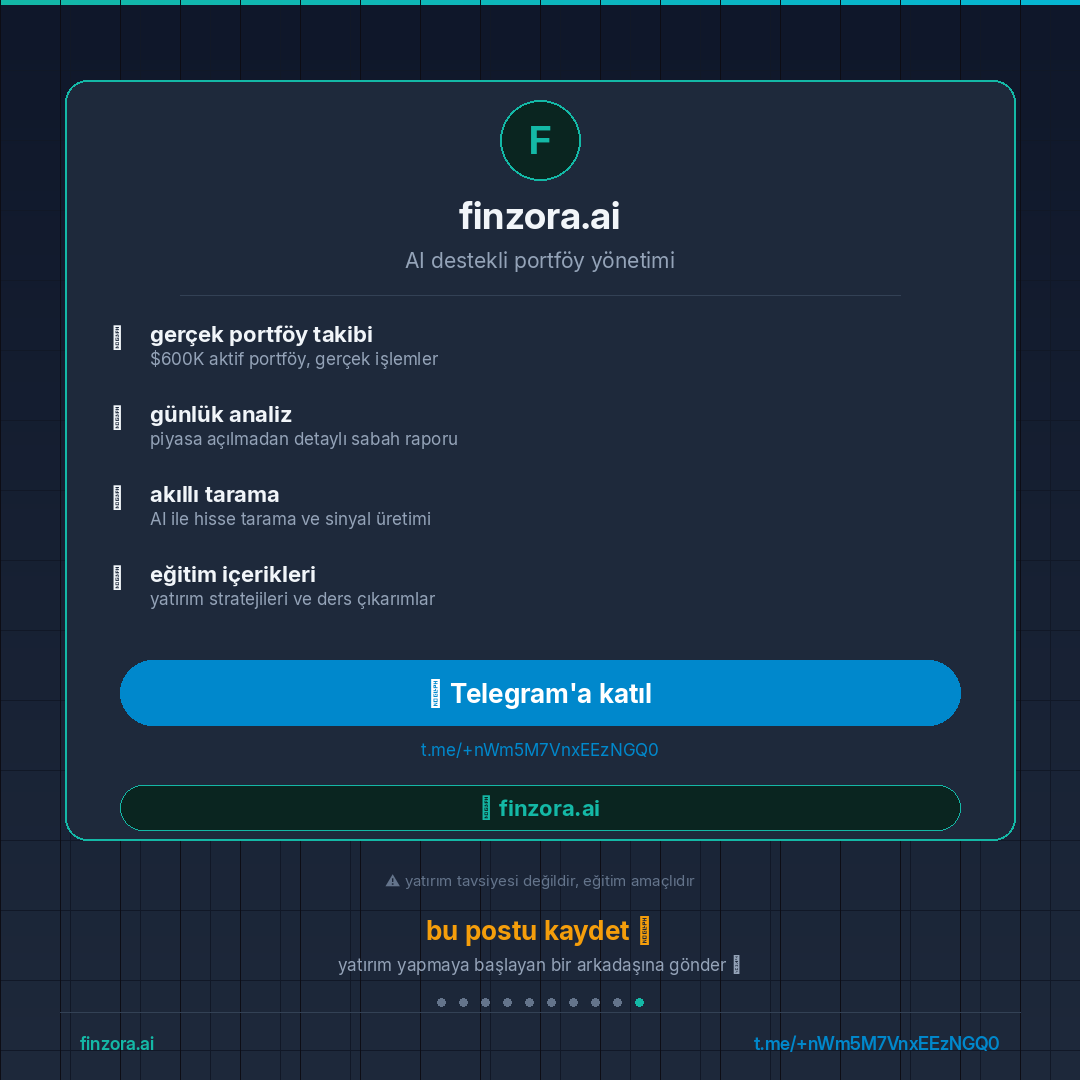
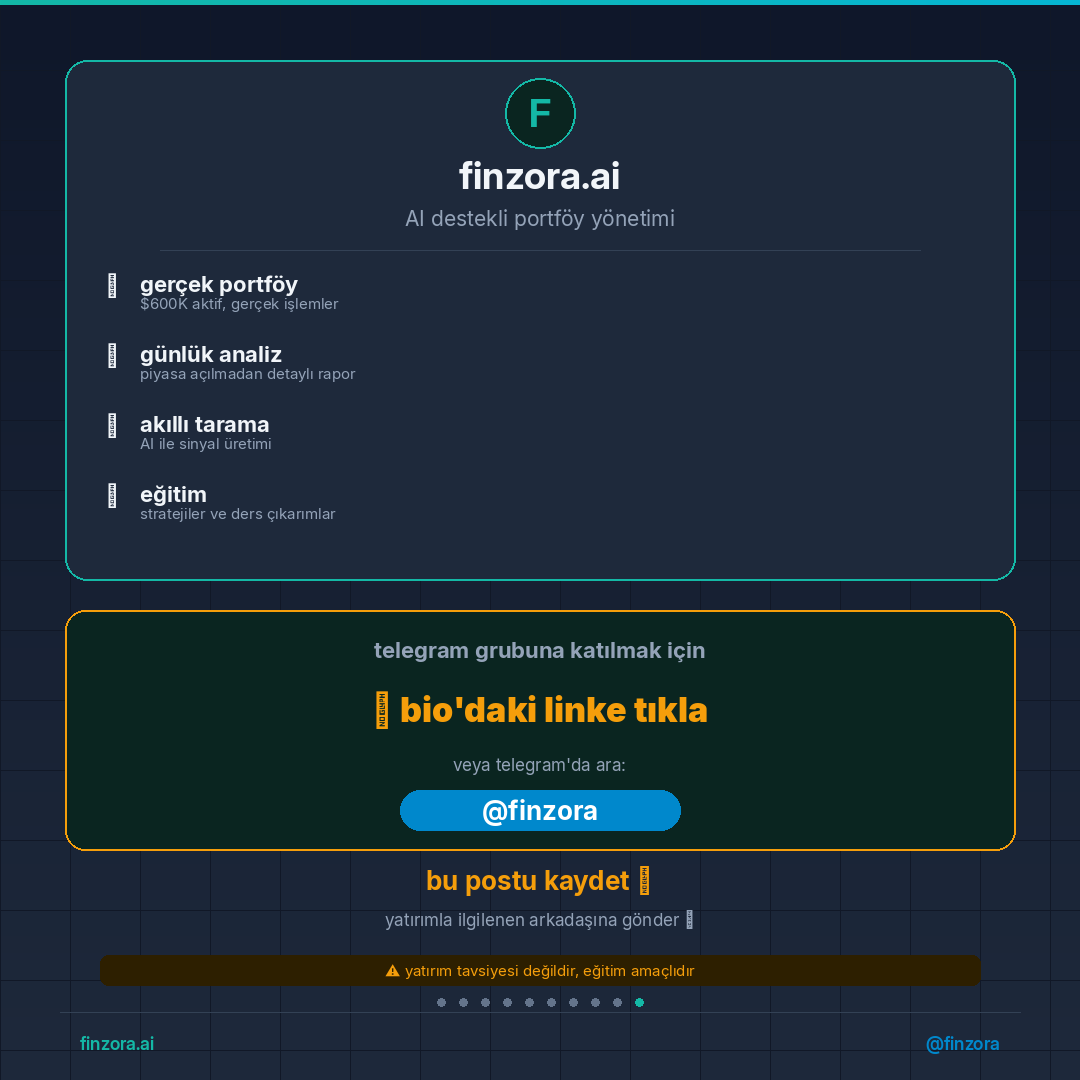
instagram: 3 günlük içerik takvimi + zamanlanmış yayın
- 7 Hata CTA düzeltildi: link → 'bio'daki linke tıkla' yönlendirmesi
- Haftalık Özet (7 slide): 5 Nisan 20:30 TR otomatik
- $100 ile Yatırım (8 slide): 6 Nisan 20:35 TR otomatik
- Genel publish_carousel.py scripti (tüm carousel'ler için)

diff --git a/scripts/publish_carousel.py b/scripts/publish_carousel.py
@@ -1,0 +1,137 @@
+#!/usr/bin/env python3
+"""Genel carousel yayınlama — klasör + caption ile çalışır"""
+import requests, json, time, sys, os, argparse
+
+BASE_DIR = os.path.dirname(os.path.dirname(os.path.abspath(__file__)))
+with open(os.path.join(BASE_DIR, "config", "instagram_config.json")) as f:
+    config = json.load(f)
+
+IG_ID = config["instagram_account_id"]
+TOKEN = config["access_token"]
+API = f"https://graph.facebook.com/{config['graph_api_version']}"
+
+CAPTIONS = {
+    "weekly": """📊 bu hafta ABD borsasında ne oldu?
+
+31 mart — 4 nisan 2026 haftasının özeti 👇
+
+🔴 CPU arz krizi patladı
+→ Intel %9+ ralli yaptı, Fab 34 geri alımı
+→ ARM AGI CPU lansmanıyla %18 sıçradı
+→ sunucu CPU fiyatları %10-15 arttı
+→ DDR5 256GB modül $5,700'e çıktı
+
+🌍 jeopolitik
+→ İran savaşı 5. haftasında, enerji primi yüksek
+→ 7 nisan müzakere deadline'ı yaklaşıyor
+→ VIX 25+ bölgesinde, volatilite devam
+
+📈 haftanın öne çıkanları: INTC, AMD, ARM, MU, QCOM
+
+gelecek hafta kritik: İran deadline + CPI verisi + Fed konuşmaları
+
+detaylı analiz ve portföy takibi 👇
+👆 bio'daki linke tıkla veya telegram'da @finzora ara
+🌐 finzora.ai
+
+⚠️ yatırım tavsiyesi değildir, eğitim amaçlıdır.
+
+
+#finzora #yatirim #borsa #amerikanborsasi #haftalikozet #sp500 #nasdaq #cpu #semiconductor #intel #amd #borsaanalizi #piyasa #wallstreet #hisseSenedi""",
+
+    "100dollar": """💰 $100 ile yatırıma nasıl başlanır?
+
+sıfırdan adım adım rehber 👇
+
+1️⃣ hedefini belirle — neden yatırım yapıyorsun?
+2️⃣ acil durum fonu ayır — 3-6 aylık gider
+3️⃣ aracı kurum hesabı aç — 10 dakika yeter
+4️⃣ ETF ile başla — SPY, QQQ veya VT
+5️⃣ düzenli yatır — her ay aynı gün, aynı tutar
+
+$100/ay × 20 yıl × %10 getiri = $76,000+
+
+bileşik getiri dünyanın 8. harikası. zaman senin en büyük silahın.
+
+bu rehberi kaydet 🔖 lazım olacak
+yatırıma başlamak isteyen arkadaşına gönder 📩
+
+daha fazlası için 👇
+👆 bio'daki linke tıkla veya telegram'da @finzora ara
+🌐 finzora.ai
+
+⚠️ yatırım tavsiyesi değildir, eğitim amaçlıdır.
+
+
+#finzora #yatirim #borsa #yatirimabasla #etf #sp500 #borsaegitimi #finansokuryazarligi #yeniyatirimci #100dolar #bilesikgetiri #portfoy #pasifgelir #yatirimegitimleri #amerikanborsasi""",
+}
+
+COMMENTS = {
+    "weekly": "gelecek hafta hangi hisseyi takip ediyorsunuz? 👇",
+    "100dollar": "yatırıma kaç yaşında başladın veya başlamayı düşünüyorsun? 👇",
+}
+
+def upload(fp):
+    r = requests.post("https://catbox.moe/user/api.php", files={"fileToUpload": open(fp,"rb")}, data={"reqtype":"fileupload"})
+    url = r.text.strip()
+    return url if url.startswith("http") else None
+
+def ig(ep, data):
+    r = requests.post(f"{API}/{ep}", data={**data, "access_token": TOKEN})
+    try: return r.json()
+    except: return {}
+
+def wait(cid, t=120):
+    for _ in range(t//5):
+        s = requests.get(f"{API}/{cid}", params={"fields":"status_code","access_token":TOKEN}).json().get("status_code","")
+        if s=="FINISHED": return True
+        if s=="ERROR": return False
+        time.sleep(5)
+    return False
+
+def main():
+    p = argparse.ArgumentParser()
+    p.add_argument("--folder", required=True)
+    p.add_argument("--type", required=True, choices=["weekly","100dollar"])
+    a = p.parse_args()
+    
+    img_dir = os.path.join(BASE_DIR, "outputs", "instagram", a.folder)
+    slides = sorted([f for f in os.listdir(img_dir) if f.endswith('.png')])
+    caption = CAPTIONS[a.type]
+    comment = COMMENTS[a.type]
+    
+    print(f"{'='*55}\n  FINZORA AI — {a.type} carousel\n  {len(slides)} slide\n{'='*55}")
+    
+    print(f"\n📤 Yükleniyor...")
+    urls = []
+    for s in slides:
+        print(f"  {s}...", end=" ")
+        u = upload(os.path.join(img_dir, s))
+        print(f"{'✓' if u else '✗'}")
+        if not u: sys.exit(1)
+        urls.append(u); time.sleep(1)
+    
+    print(f"\n📸 Container'lar...")
+    cids = []
+    for i,u in enumerate(urls):
+        r = ig(f"{IG_ID}/media", {"image_url":u, "is_carousel_item":"true"})
+        if "id" in r: cids.append(r["id"]); print(f"  [{i+1}] ✓")
+        else: print(f"  [{i+1}] ✗ {r}"); sys.exit(1)
+        time.sleep(3)
+    
+    print(f"\n  Carousel...")
+    cr = ig(f"{IG_ID}/media", {"media_type":"CAROUSEL","children":",".join(cids),"caption":caption})
+    if "id" not in cr: print(f"✗ {cr}"); sys.exit(1)
+    print(f"  ✓ {cr['id']}"); print("  ⏳ işleniyor...")
+    if not wait(cr["id"]): print("✗ timeout"); sys.exit(1)
+    
+    pr = ig(f"{IG_ID}/media_publish", {"creation_id":cr["id"]})
+    if "id" not in pr: print(f"✗ {pr}"); sys.exit(1)
+    print(f"\n✅ YAYINLANDI! {pr['id']}")
+    
+    time.sleep(3)
+    ig(f"{pr['id']}/comments", {"message":comment})
+    print(f"💬 İlk yorum eklendi")
+
+if __name__ == "__main__":
+    main()